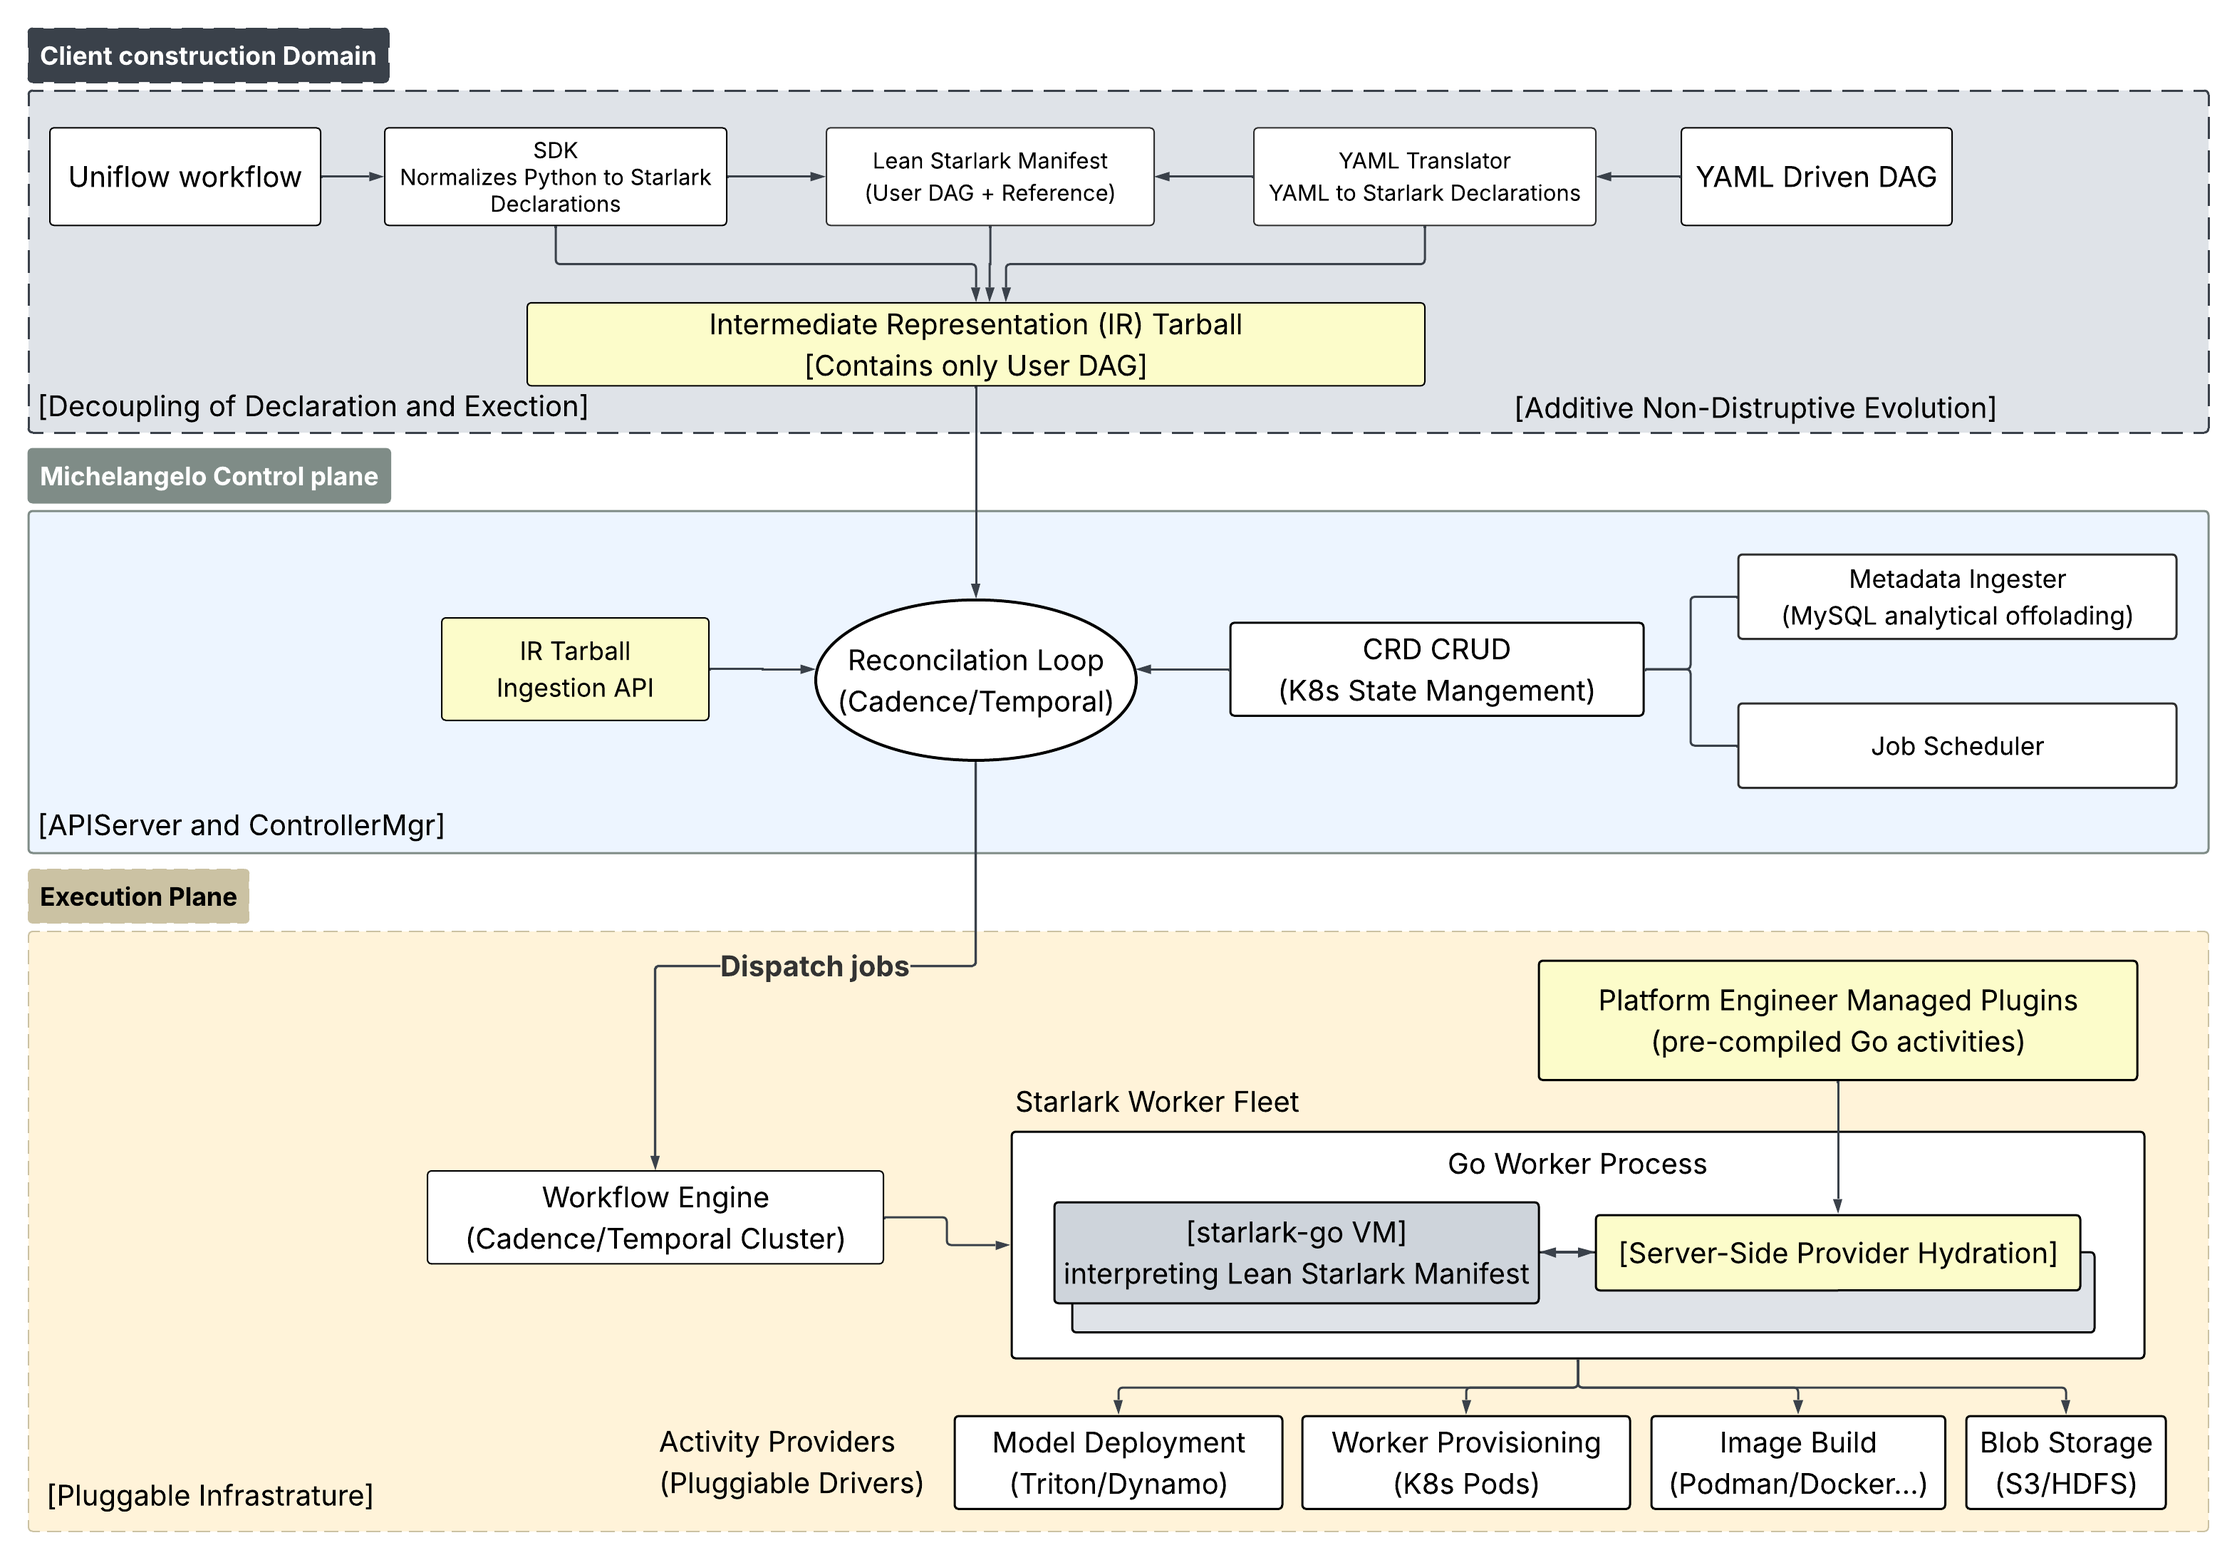
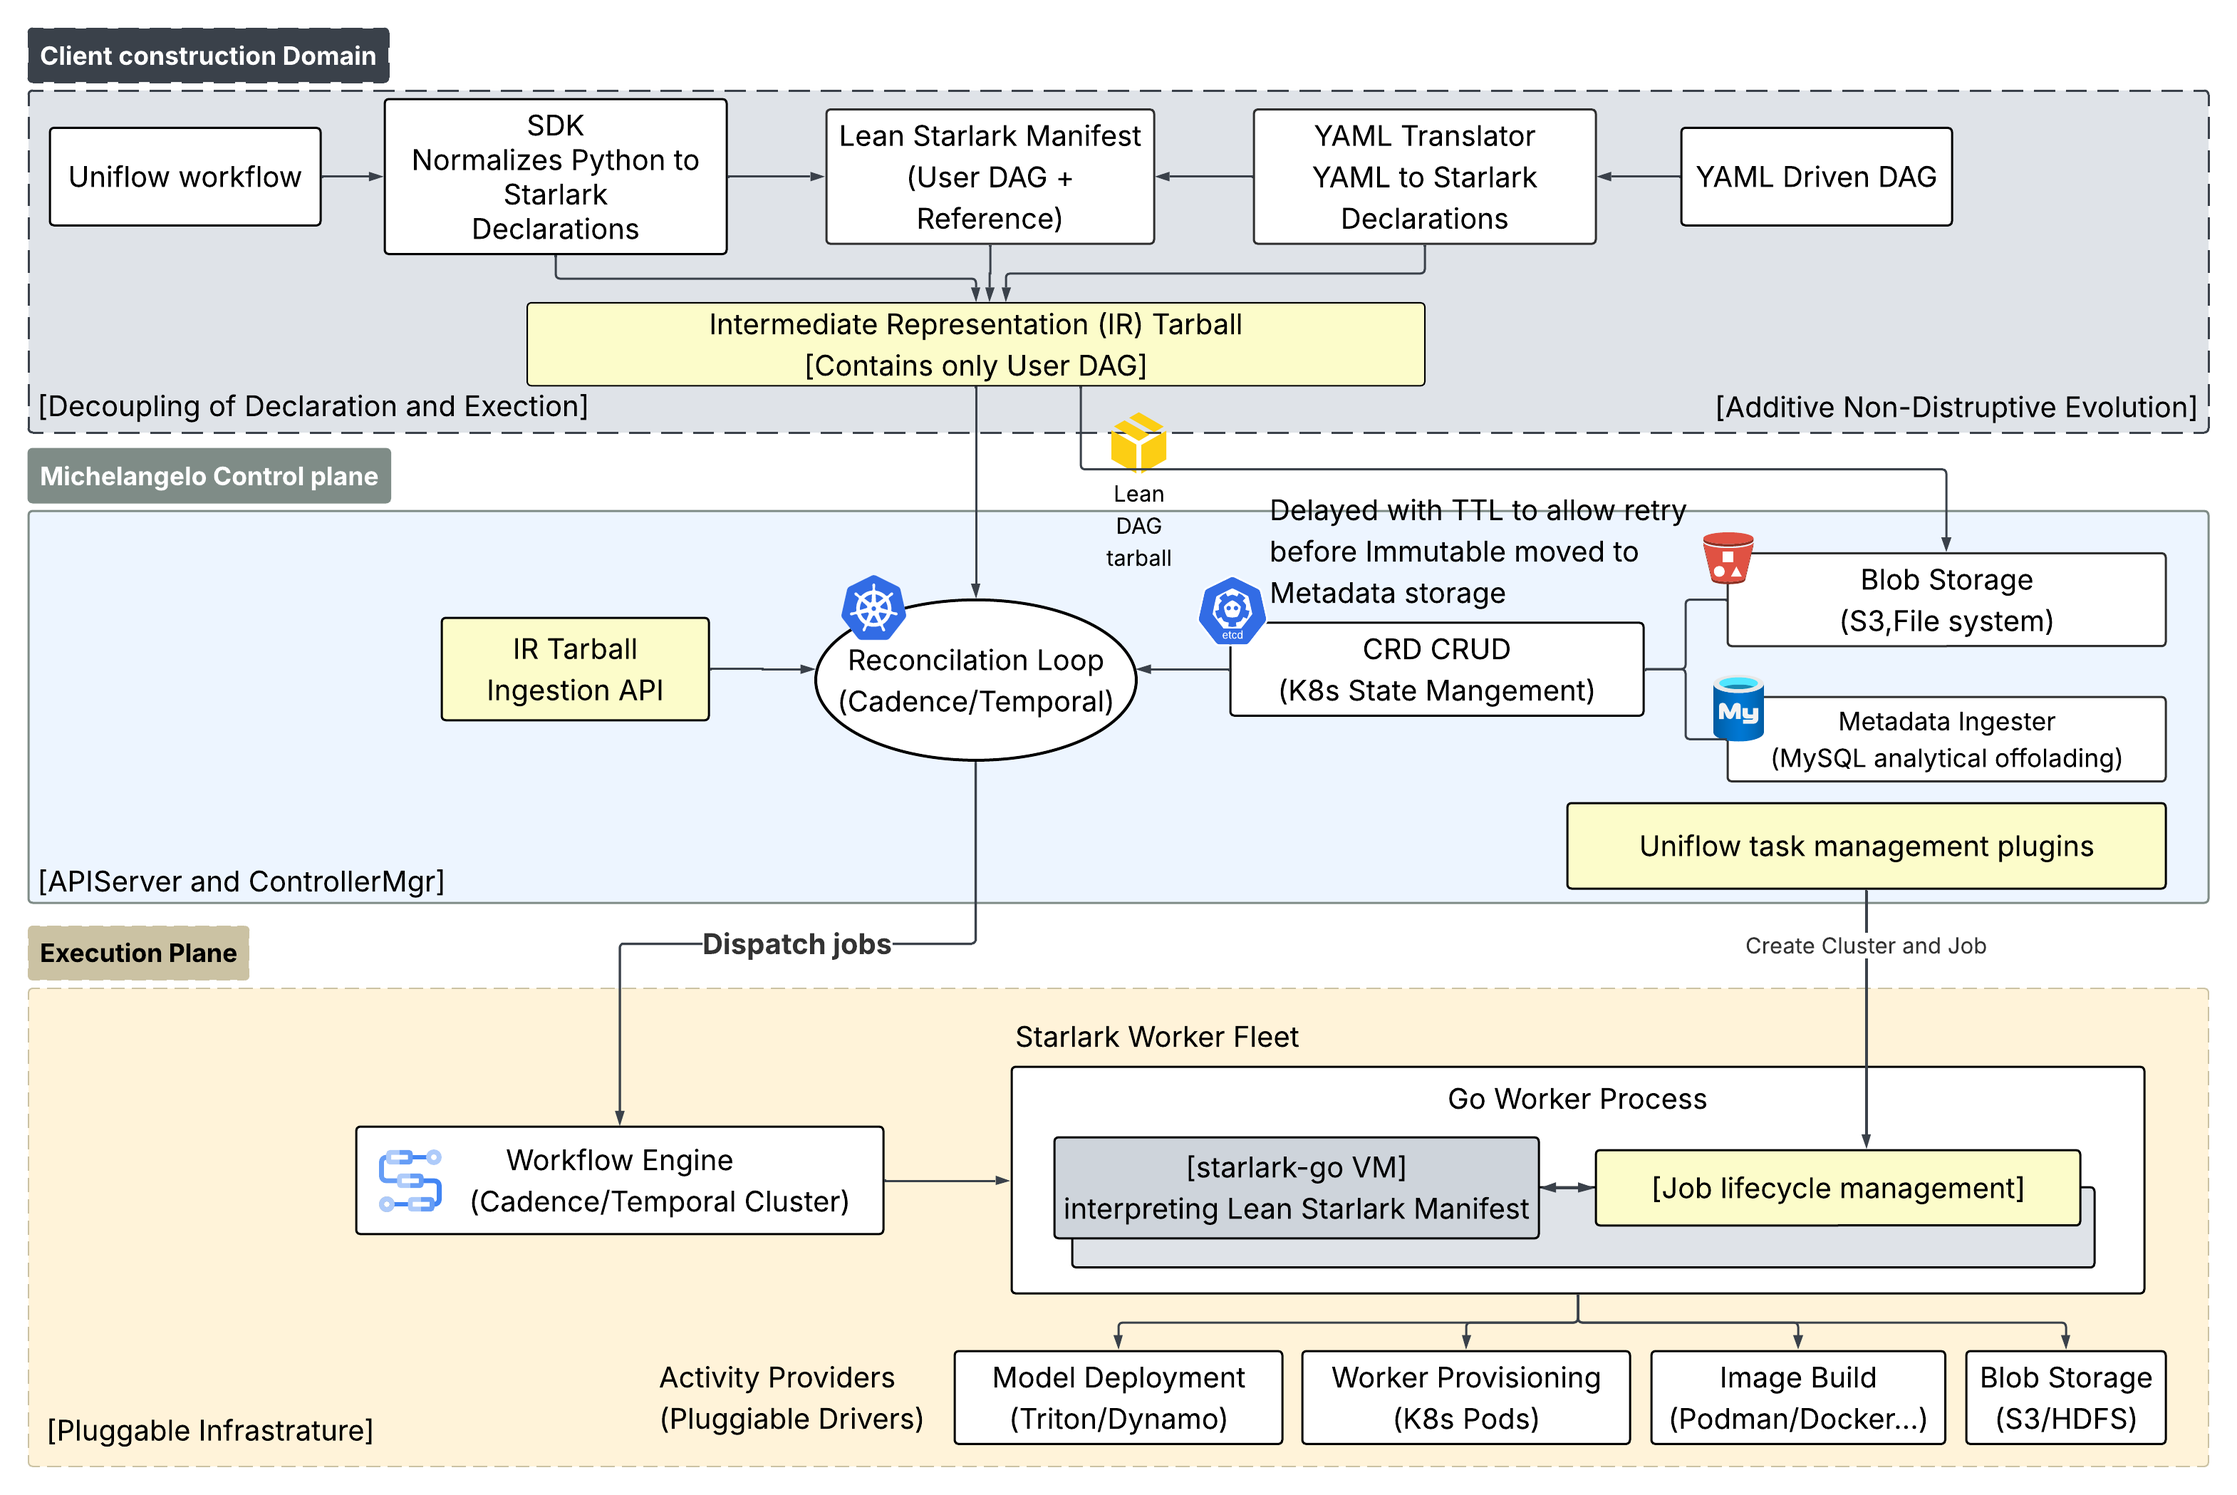
Add Proposal section, Value Proposition, and updated architecture diagram
- Add Value Proposition section explaining the two-engine tax problem
- Rewrite Problem Statement with four named failure modes (monolithic
  artifacts, state store saturation, stateless triggers, runtime inversion)
- Add Proposal section with Intent-Driven 3-Layer Orchestration Architecture
- Update High-Level Architecture table to reflect three deployment planes
- Replace architecture diagram with detailed data/ML pipeline control flow

diff --git a/rfcs/20260428-unified-ml-data-pipelines/README.md b/rfcs/20260428-unified-ml-data-pipelines/README.md
@@ -16,61 +16,49 @@ This RFC proposes evolving Michelangelo pipelines and Uniflow into a unified orc
 
 ---
 
-## Problem Statement
+## Value Proposition
 
-The current orchestration architecture lacks clearly defined system boundaries between:
+Michelangelo pipelines were originally optimized for machine learning workloads — model training, evaluation, and deployment. Production-grade ML systems do not exist in a vacuum: they depend on large-scale data ingestion, ETL transformations, and feature engineering. Because the current platform is ML-centric, teams adopting Michelangelo are often forced to deploy and maintain a completely separate workflow engine — such as Apache Airflow or a notebook job scheduler — to handle the data processing steps that feed their ML models.
 
-- **Workflow definition** — how workflows are authored and expressed
-- **Orchestration semantics** — retry, recovery, cleanup, state management
-- **Execution runtime** — how and where work is dispatched
-- **Provider implementation** — Spark, Ray, Kubernetes compute behavior
-- **Infrastructure lifecycle management** — metadata, credentials, governance
+Maintaining two distinct workflow systems introduces a compounding operational burden:
 
-As the platform evolved organically around ML workflows, orchestration responsibilities became distributed implicitly across SDKs, workflow runtimes, plugins, orchestration engines, and backend infrastructure.
+- **High Operational Overhead** — Infrastructure teams must manage, scale, and patch two separate orchestration platforms, doubling on-call surfaces, logging stacks, and infrastructure costs.
+- **Broken Data Lineage** — Running data engineering in one system and ML training in another breaks end-to-end data provenance. It becomes impossible to natively trace a model's lineage back to the raw data that produced it.
+- **Slower Time-to-Market** — Engineers must context-switch between two different toolkits, debugging environments, and deployment paradigms just to move a single model to production.
 
-This leads to recurring foundational questions whenever new orchestration capabilities are introduced:
-
-- Which layer owns retry and recovery semantics?
-- Should workflow artifacts contain execution logic or execution intent?
-- What belongs in the workflow SDK versus the orchestration control plane?
-- How should workflow visualization be standardized across high-code and declarative workflows?
-- How should dynamic DAG state be persisted and replayed?
-- Which responsibilities belong to orchestration providers versus the orchestration platform itself?
-
-Without a formal orchestration boundary model, new capabilities risk being implemented as workflow-specific behaviors instead of reusable platform primitives. The result is:
-
-- Duplicated orchestration semantics across workload types
-- Tightly coupled execution runtimes
-- Inconsistent reliability behavior
-- Fragmented observability models
-- Provider-specific workflow logic
-- Increasing migration complexity over time
-
-**The primary challenge is not feature enablement. It is defining a generalized orchestration architecture with stable system boundaries capable of supporting future orchestration evolution consistently across both ML and data engineering workloads.**
+The goal of this proposal is to eliminate the need for dual workflow platforms. By evolving Michelangelo into a unified system capable of orchestrating both heavy data processing and ML pipelines, we deliver a single infrastructure footprint that handles the entire data-to-model lifecycle.
 
 ---
 
-## Motivation
+## Problem Statement
 
-Michelangelo pipelines already provide strong orchestration through Uniflow and Temporal/Cadence — particularly for ML workflows requiring dynamic DAG execution, long-running reliability, and Python/Starlark SDK authoring.
+The platform evolved organically around ML workflows, and orchestration responsibilities became distributed implicitly across SDKs, workflow runtimes, plugins, and backend infrastructure. This leaves no clearly defined system boundary between the three core planes: the **Definition Plane** (user authoring space), the **Control Plane** (API and state management), and the **Execution Fleet** (workers).
 
-As Michelangelo expands beyond ML-centric workflows and is adopted by external partners, the primary opportunity is establishing Michelangelo as a generalized orchestration foundation rather than continuing to add ML-specific pipeline features.
+Without a formalized three-layer boundary model, new capabilities are implemented as isolated, workflow-specific behaviors rather than reusable platform primitives. This manifests in four concrete problems:
 
-Expected platform improvements:
+### 1. Monolithic Workflow Artifacts and Low-Code Rigidity
 
-| Area | Expected Outcome |
-|---|---|
-| Platform Fragmentation | Reduce duplicated orchestration systems across ML and DE workloads |
-| Reliability Consistency | Standardize retry, recovery, cleanup, and execution semantics |
-| Workflow Visibility | Enable visualization and observability for high-code workflows |
-| Platform Extensibility | Allow future orchestration capabilities to evolve through shared primitives |
-| Infrastructure Efficiency | Reduce duplicated orchestration infrastructure and operational overhead |
+The low-code visual workflow builder was designed around rigid, pre-defined workflow templates — a practical tradeoff that promoted consistent ML quality and simplified the user experience. However, because user DAG topology and platform execution code are co-mingled into a single artifact at construction time, low-code users cannot dynamically rewire graph edges or task-dependency relationships at runtime. Any routine backend bug fix or plugin update also forces a client-side SDK version bump across all users.
+
+### 2. Active State Store Saturation and Instant Eviction
+
+The active state store holds heavy payloads — debug logs, execution metrics, and dataset metadata — inside a single unfragmented run record. To stay within storage capacity limits, the control plane must immediately evict failed runs. Because state is destroyed on failure, the platform cannot support native retry-from-failure or automated disaster recovery. Users must create an entirely new run from scratch.
+
+### 3. Stateless Triggers and No Lifecycle Controls
+
+Pipeline schedules and event triggers operate as fire-and-forget API calls with no persistent tracking entity in the control plane. Active runs are opaque, untracked sessions. There is no mechanism to gracefully pause or resume an active pipeline when an upstream dependency goes down. The only operational control available is a destructive, data-wiping cancel.
+
+### 4. Runtime Functional Inversion
+
+Heavy infrastructure lifecycles — cluster provisioning (Spark, Ray), credential injection, remote job submission, and polling loops — execute inside the embedded scripting engine rather than natively in the Go worker process. Large telemetry payloads must constantly cross the Go-to-script memory boundary, creating serialization overhead and wasting worker CPU cycles. Running infrastructure logic inside a scripting engine also blocks standard unit testing and IDE debugging, making the execution plane difficult to validate and maintain.
+
+**The primary challenge is not feature enablement. It is defining a generalized, three-layer orchestration architecture with stable system boundaries capable of supporting future orchestration evolution consistently across both ML and data engineering workloads.**
 
 ---
 
 ## Goals
 
-- Define explicit, stable system boundaries across orchestration layers
+- Define explicit, stable system boundaries across the Definition Plane, Control Plane, and Execution Fleet
 - Converge orchestration semantics (retry, recovery, cleanup, credential persistence) into a shared control plane
 - Introduce a Unified Workflow Intermediate Representation (IR) as the canonical orchestration contract
 - Enable high-code workflows (Python/Starlark) to participate in the same observability and visualization model as declarative (YAML) workflows
@@ -79,28 +67,58 @@ Expected platform improvements:
 
 ## Non-Goals
 
-- Replacing existing Uniflow authoring paradigms
+- Replacing existing data processing pipelines with Uniflow
+- Achieving full feature parity between Cadence and Temporal workflow runtime engines
 - Requiring migration or rewrite of existing workflows
-- Replacing Temporal/Cadence orchestration infrastructure
 - Building a standalone orchestration platform outside Michelangelo
+
+---
+
+## Proposal
+
+To permanently resolve these boundary leaks and operational gaps, this proposal replaces our organically tangled system with an **Intent-Driven 3-Layer Orchestration Architecture**. By drawing a hard line between core system responsibilities, we completely decouple user intent from platform execution.
+
+Instead of spreading logic implicitly across the stack, this architecture maps four core software responsibilities directly into three isolated, physical deployment planes:
+
+- **Workflow Definition** — How users configure pipelines (restricted entirely to the Definition Plane).
+- **Orchestration Semantics** — How the platform handles state transitions, retries, and triggers (managed by the Control Plane).
+- **Execution Implementation** — How workers execute graph choreography and track jobs (run within the Execution Fleet).
+- **Infrastructure Lifecycle Management** — How the backend provisions compute resources and handles logging data (isolated to Go-native worker space).
+
+### The New Orchestration Model
+
+| Layer | Primary Platform Responsibility |
+|---|---|
+| Workflow Authoring | Users write code in Python/Starlark or arrange boxes in the Canvas YAML. This only captures the user's layout intent and contains zero execution code. |
+| Orchestration Control Plane | The API Server manages the run lifecycle, coordinates safe retry windows, and acts as the central state controller. |
+| Asynchronous Storage | The Metadata Ingester strips heavy logs and telemetry out of the hot store (ETCD) and pushes them to MySQL to keep the system fast. |
+| Workflow Runtime | The Temporal/Cadence engine manages dynamic, late-bound DAG paths (loops, branches, and expansions) deterministically. |
+| Execution Providers | Go-native worker fleets handle server-side hydration. They run the heavy infrastructure lifecycles (Spark, Ray, Kubernetes cluster setups and polling loops). |
+
+### Design Principles
+
+| Principle | Description |
+|---|---|
+| Workload-Agnostic Engine | The core system does not care if a task is an ML training script or a Data Engineering ETL pipeline. Every step is treated as a uniform, schedulable block. |
+| Separation of Setup and Execution (Server-Side Hydration) | The user construction plane should only emit the workflow DAG and high-level intent, completely stripped of platform implementation details. Following standard Declarative Programming Patterns, the authoring layer focuses entirely on *what* the pipeline should achieve, while the platform handles *how* it runs. This mirrors Kubernetes API Architecture, ensuring the user space remains independent of backend infrastructure updates and hydration. |
+| Platform-Managed Resiliency & Retries | Retries, caching, cleanup, and token updates are centralized platform features handled inside the control plane. Individual plugin developers and end-users do not write failure-handling code. |
+| Unified Observability | Every pipeline — whether written in Python or built on the UI Canvas — is translated into the exact same layout blueprint before running. This gives high-code and low-code workflows total parity for visual graphs and tracking. |
 
 ---
 
 ## High-Level Architecture
 
-The proposed architecture establishes five explicit layers with defined responsibilities:
+The proposed architecture establishes three physical deployment planes with defined responsibilities:
 
 ![High-Level Architecture](architecture.png)
 
 ### Layer Responsibilities
 
-| Layer | Responsibility |
-|---|---|
-| Workflow Authoring | Python SDK, Starlark, YAML; expresses orchestration intent |
-| Orchestration Control Plane | Pipeline lifecycle, orchestration state, retry/recovery, trigger orchestration, governance, workflow reconciliation |
-| Workflow Runtime | Durable dynamic DAG execution via Temporal/Cadence; late-bound topology |
-| Execution Providers | Provider-specific compute: Spark, Ray, Kubernetes |
-| Infrastructure Services | Metadata, observability, RBAC, credential and token lifecycle |
+| Plane | Components | Responsibility |
+|---|---|---|
+| Client Construction Domain | Uniflow workflow, SDK, Starlark Manifest, YAML Translator | Normalizes all authoring paradigms (Python, Starlark, YAML) into a Lean IR Tarball containing only the user DAG — zero execution logic |
+| Michelangelo Control Plane | IR Tarball Ingestion API, Reconciliation Loop (Cadence/Temporal), CRD CRUD (K8s State Management), Metadata Ingester, Uniflow task management plugins | Manages run lifecycle, K8s CRD state, retry windows (delayed with TTL before immutable move to metadata storage), and offloads analytical data to MySQL |
+| Execution Plane | Workflow Engine (Cadence/Temporal Cluster), Go Worker Process (starlark-go VM), Activity Providers | Dispatches jobs to the Starlark Worker Fleet; interprets the Lean Starlark Manifest; drives pluggable infrastructure drivers (Triton/Dynamo, K8s Pods, Podman/Docker, S3/HDFS) |
 
 ### Four Architectural Principles
 
